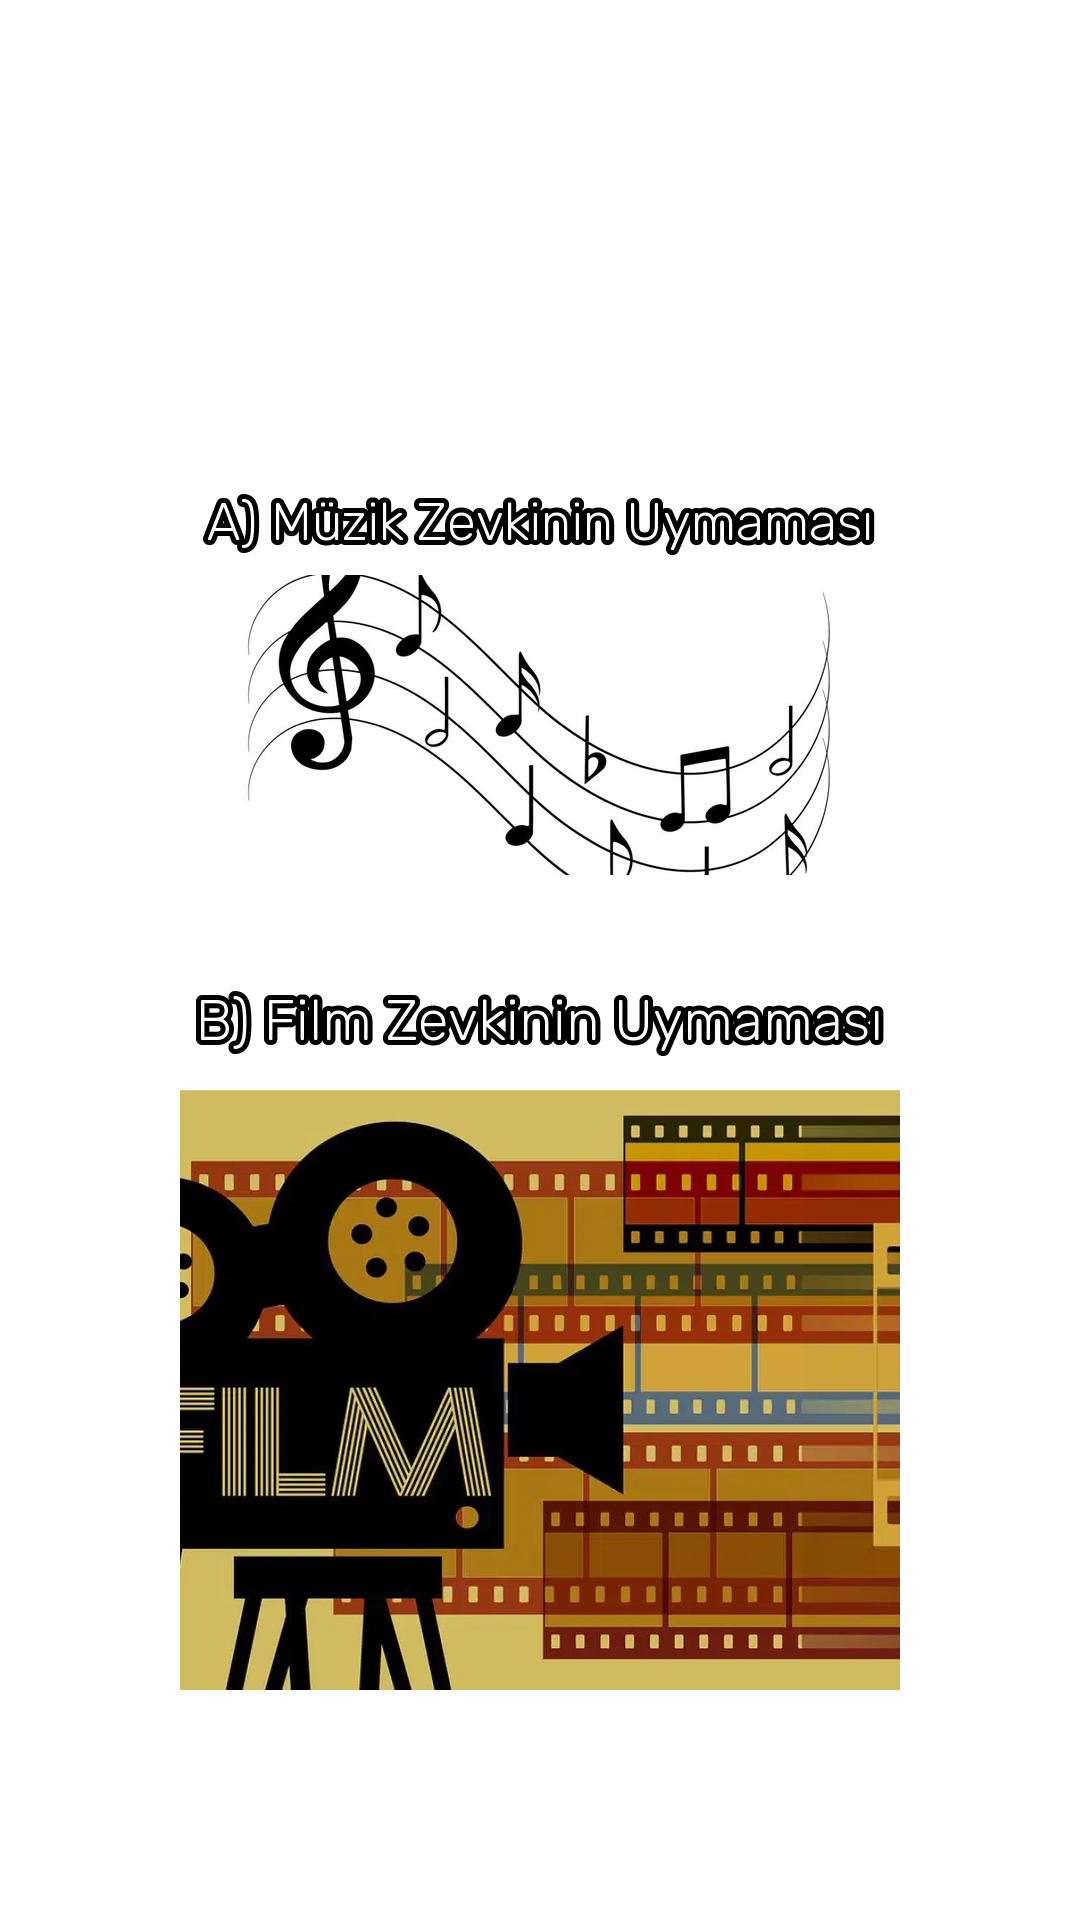
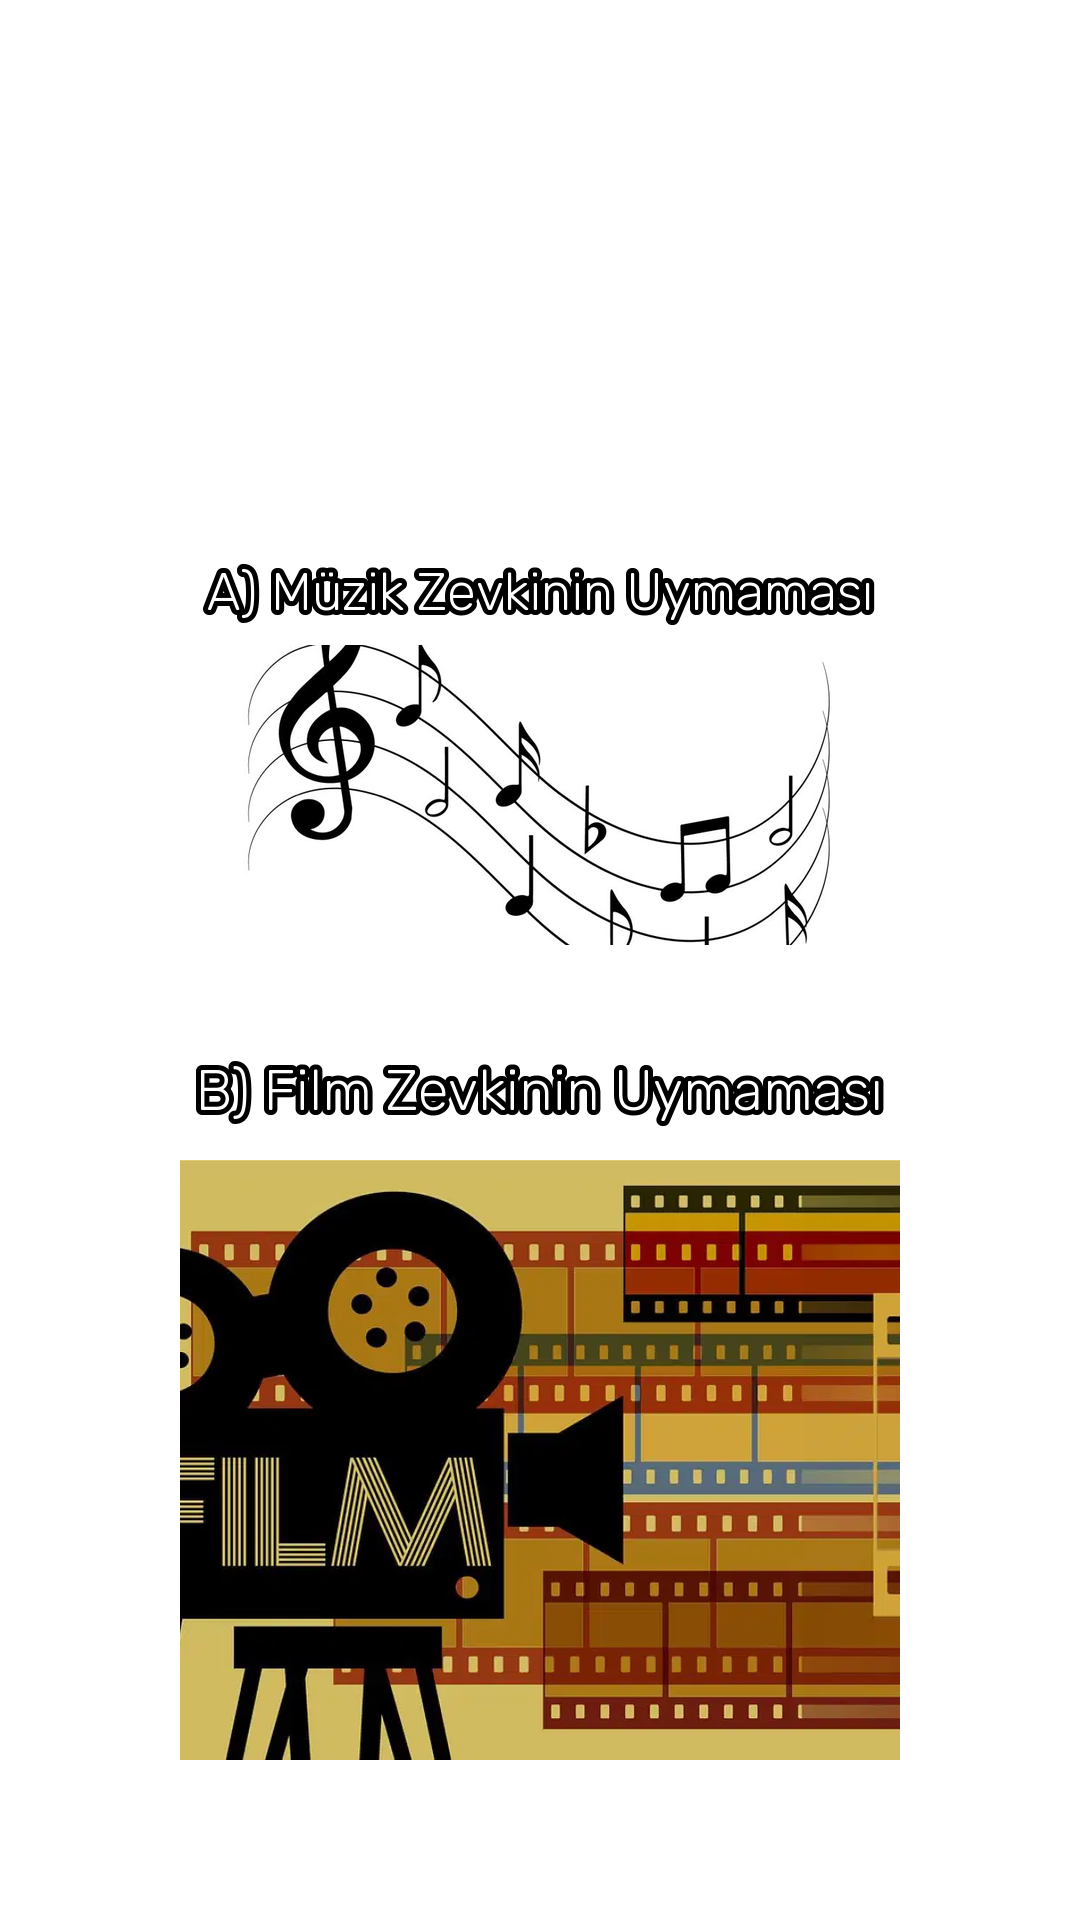
fix: fix layout paddings

Changed region(s): [[0.1528, 0.25, 0.8556, 0.9375]]

diff --git a/render_cift_oyunu.py b/render_cift_oyunu.py
@@ -33,15 +33,15 @@ CONFIG = {
     "background_image": "bg.png",
     "layout": {
         "timer": {"x": 120, "y": 90, "w": 840, "h": 22},
-        "question_box": {"x": 80, "y": 150, "w": 920, "h": 320},
+        "question_box": {"x": 80, "y": 220, "w": 920, "h": 320},
         "choices": {
             "a": {
-                "label_box": {"x": 180, "y": 470, "w": 720, "h": 95},
-                "image_box": {"x": 180, "y": 575, "w": 720, "h": 300},
+                "label_box": {"x": 180, "y": 540, "w": 720, "h": 95},
+                "image_box": {"x": 180, "y": 645, "w": 720, "h": 300},
             },
             "b": {
-                "label_box": {"x": 180, "y": 950, "w": 720, "h": 130},
-                "image_box": {"x": 180, "y": 1090, "w": 720, "h": 600},
+                "label_box": {"x": 180, "y": 1020, "w": 720, "h": 130},
+                "image_box": {"x": 180, "y": 1160, "w": 720, "h": 600},
             },
         },
     },
@@ -58,7 +58,7 @@ CONFIG = {
         "shadow_offset": (3, 3),
     },
     # Reveal choices slightly before the question audio fully ends.
-    "choices_lead_seconds": 0.9,
+    "choices_lead_seconds": 2.8,
     # Transition between questions (seconds). Set 0 to disable.
     "transition_seconds": 0.25,
     "transition_type": "fade",
